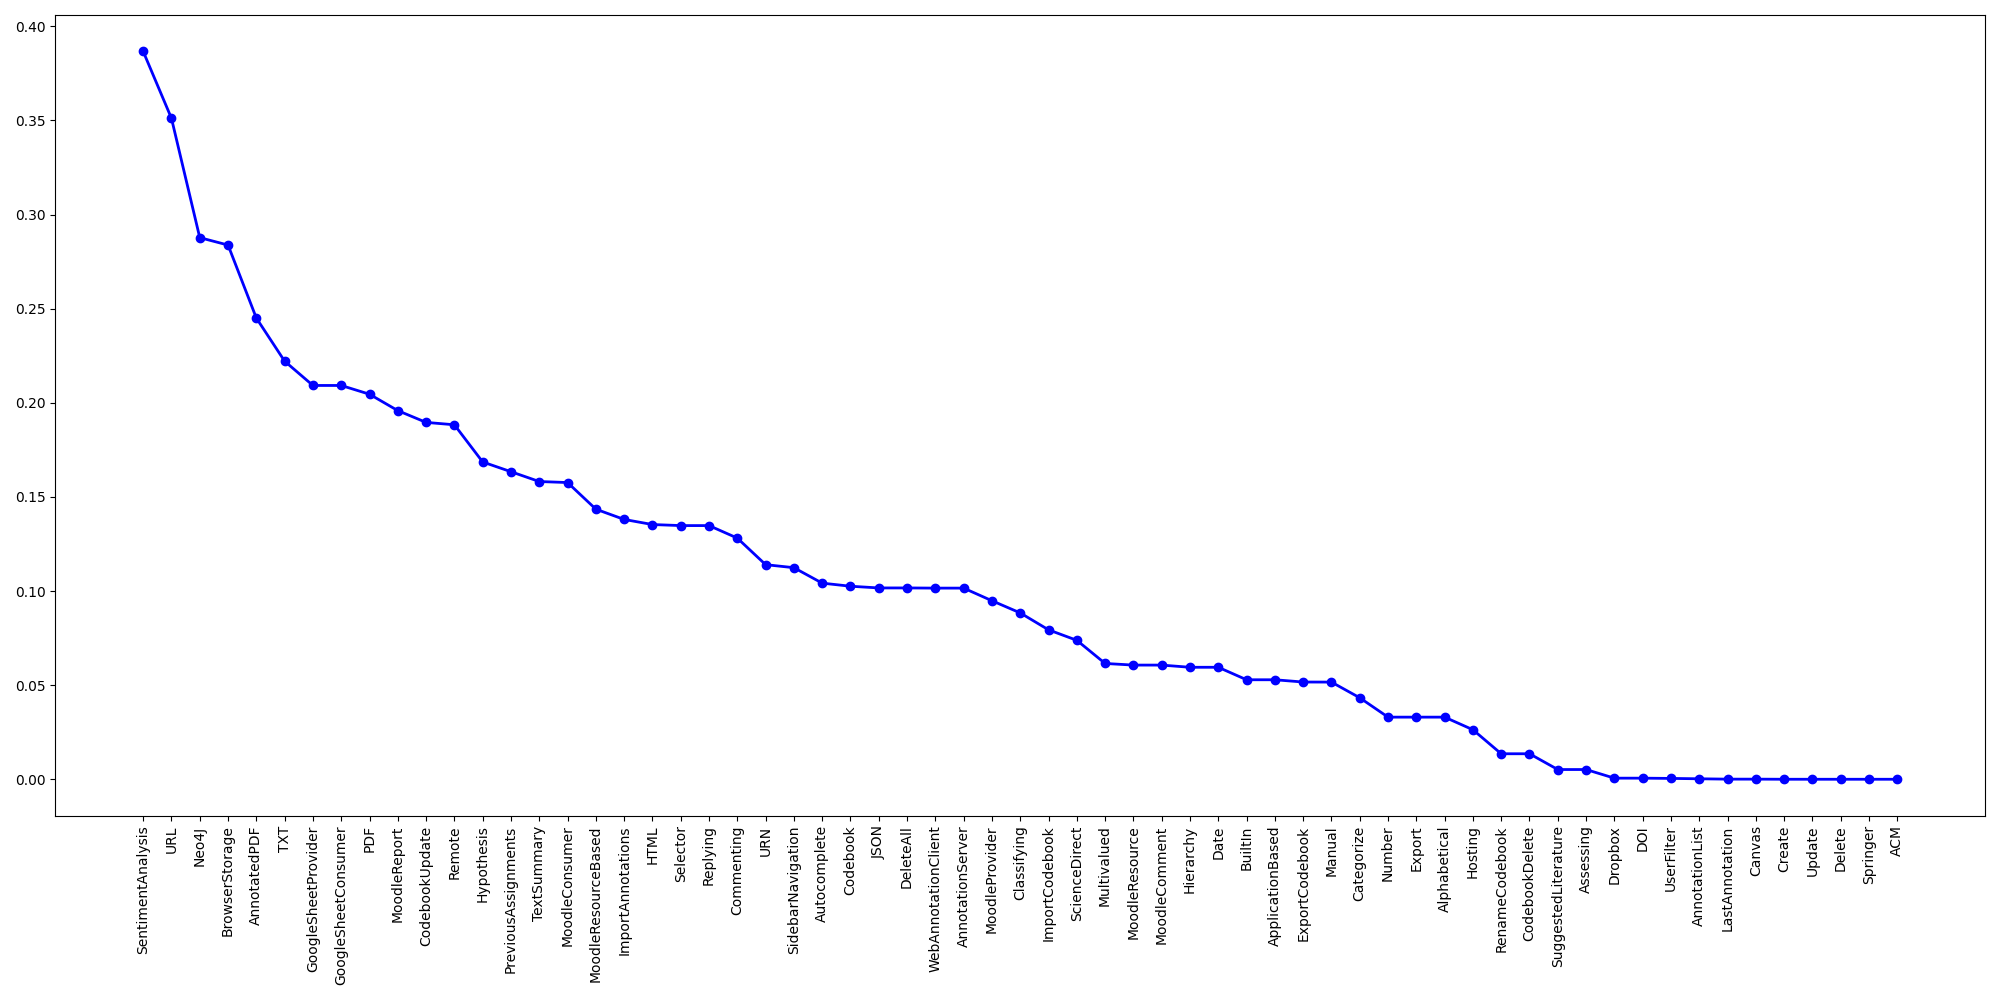
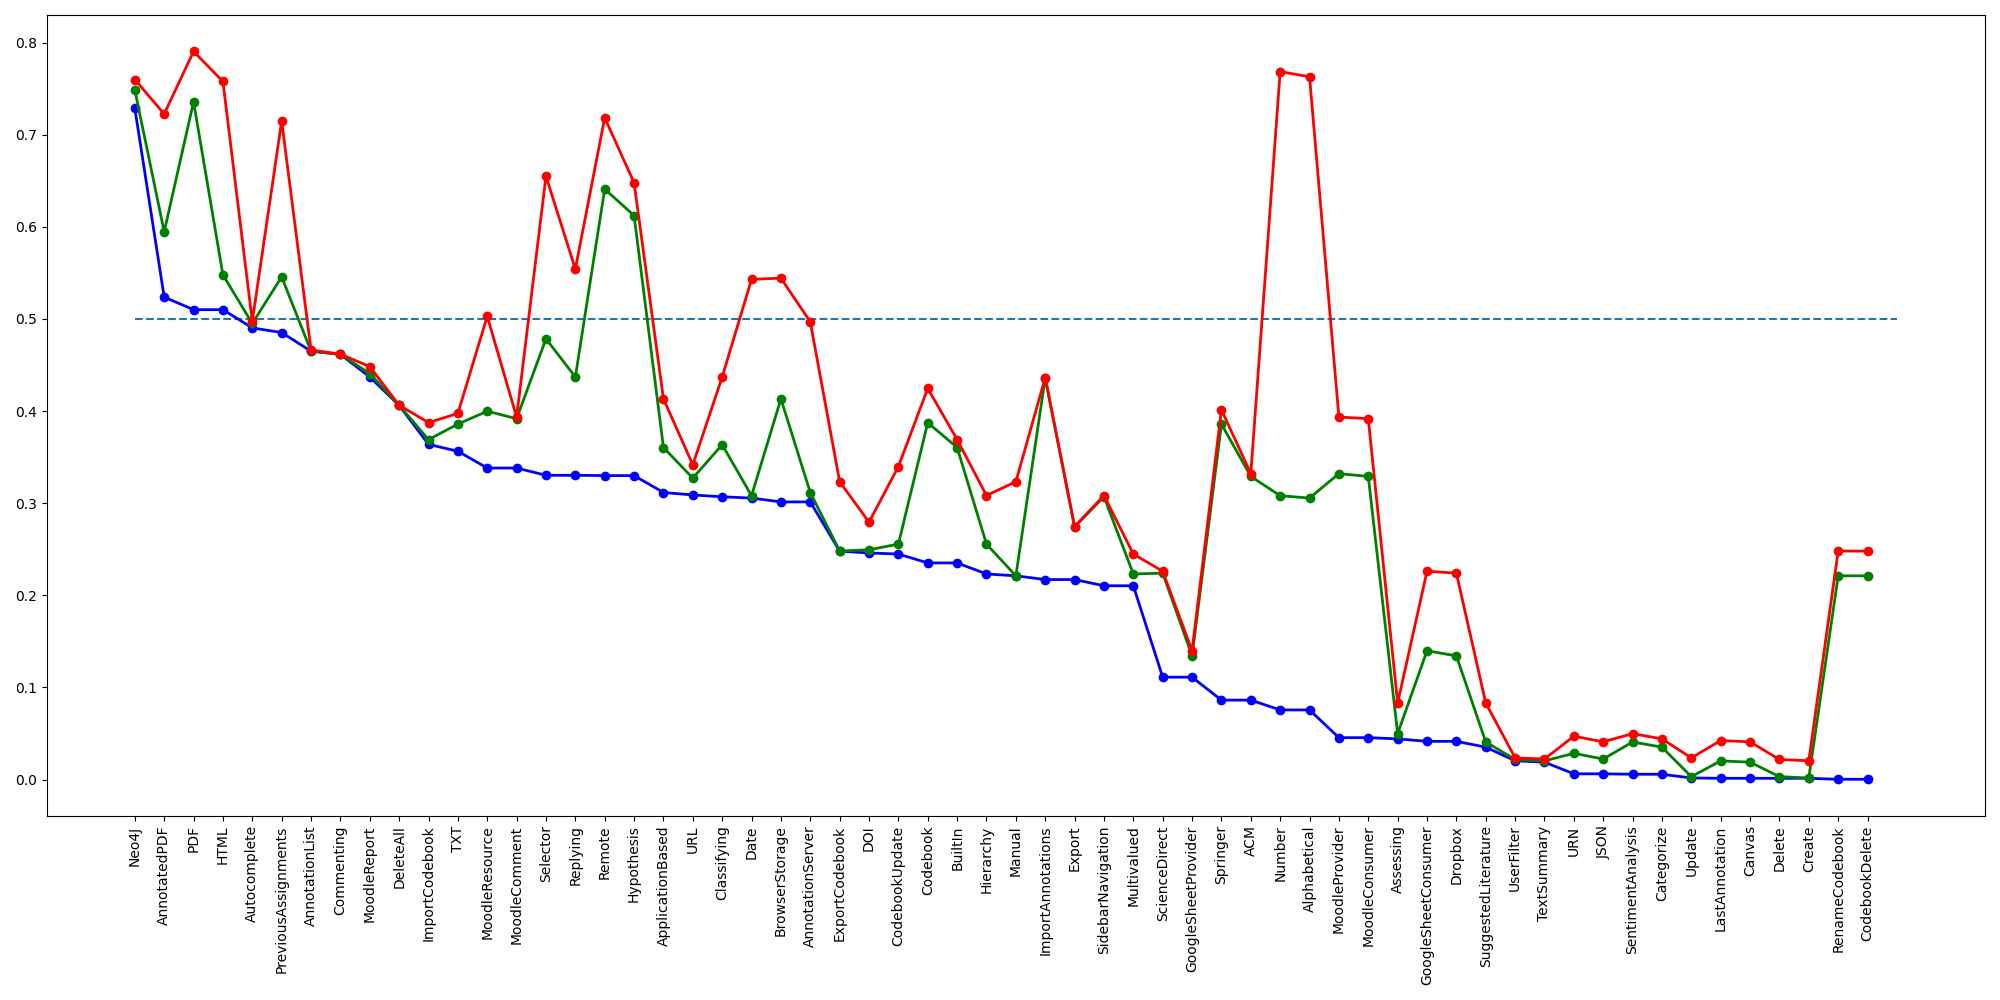
Clustering script and plot

diff --git a/LASCAD/results/similarApps/Experiments/Clusters/clusters.py b/LASCAD/results/similarApps/Experiments/Clusters/clusters.py
@@ -1,0 +1,180 @@
+import matplotlib.pyplot as plt
+import numpy as np
+import csv
+import pprint
+clusters_names=["Cluster"+str(i) for i in range(1,11)]
+clusters = {
+    'browsers': ["Cluster"+str(i) for i in range(1,11)],
+    'clusters_vol': [0 for i in range(1,11)],
+    'color': ['#5A69AF', '#579E65', '#F9C784', '#FC944A', '#F24C00', '#00B825','#ffff00','#ffa200','#ff00ed','#8b4615']
+}
+clusters_features = {}
+for name in clusters_names:
+    clusters_features[name]=""
+
+class BubbleChart:
+    def __init__(self, area, bubble_spacing=0):
+        """
+        Setup for bubble collapse.
+
+        Parameters
+        ----------
+        area : array-like
+            Area of the bubbles.
+        bubble_spacing : float, default: 0
+            Minimal spacing between bubbles after collapsing.
+
+        Notes
+        -----
+        If "area" is sorted, the results might look weird.
+        """
+        area = np.asarray(area)
+        r = np.sqrt(area / np.pi)
+
+        self.bubble_spacing = bubble_spacing
+        self.bubbles = np.ones((len(area), 4))
+        self.bubbles[:, 2] = r
+        self.bubbles[:, 3] = area
+        self.maxstep = 2 * self.bubbles[:, 2].max() + self.bubble_spacing
+        self.step_dist = self.maxstep / 2
+
+        # calculate initial grid layout for bubbles
+        length = np.ceil(np.sqrt(len(self.bubbles)))
+        grid = np.arange(length) * self.maxstep
+        gx, gy = np.meshgrid(grid, grid)
+        self.bubbles[:, 0] = gx.flatten()[:len(self.bubbles)]
+        self.bubbles[:, 1] = gy.flatten()[:len(self.bubbles)]
+
+        self.com = self.center_of_mass()
+
+    def center_of_mass(self):
+        return np.average(
+            self.bubbles[:, :2], axis=0, weights=self.bubbles[:, 3]
+        )
+
+    def center_distance(self, bubble, bubbles):
+        return np.hypot(bubble[0] - bubbles[:, 0],
+                        bubble[1] - bubbles[:, 1])
+
+    def outline_distance(self, bubble, bubbles):
+        center_distance = self.center_distance(bubble, bubbles)
+        return center_distance - bubble[2] - \
+               bubbles[:, 2] - self.bubble_spacing
+
+    def check_collisions(self, bubble, bubbles):
+        distance = self.outline_distance(bubble, bubbles)
+        return len(distance[distance < 0])
+
+    def collides_with(self, bubble, bubbles):
+        distance = self.outline_distance(bubble, bubbles)
+        idx_min = np.argmin(distance)
+        return idx_min if type(idx_min) == np.ndarray else [idx_min]
+
+    def collapse(self, n_iterations=50):
+        """
+        Move bubbles to the center of mass.
+
+        Parameters
+        ----------
+        n_iterations : int, default: 50
+            Number of moves to perform.
+        """
+        for _i in range(n_iterations):
+            moves = 0
+            for i in range(len(self.bubbles)):
+                rest_bub = np.delete(self.bubbles, i, 0)
+                # try to move directly towards the center of mass
+                # direction vector from bubble to the center of mass
+                dir_vec = self.com - self.bubbles[i, :2]
+
+                # shorten direction vector to have length of 1
+                dir_vec = dir_vec / np.sqrt(dir_vec.dot(dir_vec))
+
+                # calculate new bubble position
+                new_point = self.bubbles[i, :2] + dir_vec * self.step_dist
+                new_bubble = np.append(new_point, self.bubbles[i, 2:4])
+
+                # check whether new bubble collides with other bubbles
+                if not self.check_collisions(new_bubble, rest_bub):
+                    self.bubbles[i, :] = new_bubble
+                    self.com = self.center_of_mass()
+                    moves += 1
+                else:
+                    # try to move around a bubble that you collide with
+                    # find colliding bubble
+                    for colliding in self.collides_with(new_bubble, rest_bub):
+                        # calculate direction vector
+                        dir_vec = rest_bub[colliding, :2] - self.bubbles[i, :2]
+                        dir_vec = dir_vec / np.sqrt(dir_vec.dot(dir_vec))
+                        # calculate orthagonal vector
+                        orth = np.array([dir_vec[1], -dir_vec[0]])
+                        # test which direction to go
+                        new_point1 = (self.bubbles[i, :2] + orth *
+                                      self.step_dist)
+                        new_point2 = (self.bubbles[i, :2] - orth *
+                                      self.step_dist)
+                        dist1 = self.center_distance(
+                            self.com, np.array([new_point1]))
+                        dist2 = self.center_distance(
+                            self.com, np.array([new_point2]))
+                        new_point = new_point1 if dist1 < dist2 else new_point2
+                        new_bubble = np.append(new_point, self.bubbles[i, 2:4])
+                        if not self.check_collisions(new_bubble, rest_bub):
+                            self.bubbles[i, :] = new_bubble
+                            self.com = self.center_of_mass()
+
+            if moves / len(self.bubbles) < 0.1:
+                self.step_dist = self.step_dist / 2
+
+    def plot(self, ax, labels, colors):
+        """
+        Draw the bubble plot.
+
+        Parameters
+        ----------
+        ax : matplotlib.axes.Axes
+        labels : list
+            Labels of the bubbles.
+        colors : list
+            Colors of the bubbles.
+        """
+        for i in range(len(self.bubbles)):
+            circ = plt.Circle(
+                self.bubbles[i, :2], self.bubbles[i, 2], color=colors[i])
+            ax.add_patch(circ)
+            ax.text(*self.bubbles[i, :2], labels[i],
+                    horizontalalignment='center', verticalalignment='center')
+
+f1 = open('project_cat_showcase_noStem2_50_0.9_0.05_LASCAD.csv','r')
+
+c1 = csv.reader(f1, delimiter=',')
+pattern = r'\'(.*?)\''
+
+next(c1,None)
+for row in c1:
+    for i in range(1,len(row)):
+        if float(row[i]) != 0.0:
+            clusters['clusters_vol'][i-1] = clusters['clusters_vol'][i-1]+1
+            clusters_features['Cluster'+str(i)]= clusters_features['Cluster'+str(i)] + ", " + row[0]
+
+
+
+bubble_chart = BubbleChart(area=clusters['clusters_vol'],
+                           bubble_spacing=0.1)
+
+bubble_chart.collapse()
+
+fig, ax = plt.subplots(subplot_kw=dict(aspect="equal"),figsize=(20, 10))
+bubble_chart.plot(
+    ax, clusters['browsers'], clusters['color'])
+ax.axis("off")
+ax.relim()
+ax.autoscale_view()
+pp = pprint.PrettyPrinter(indent=2)
+title=""
+for key, value in clusters_features.items():
+    title= title+ key+ ":" + value +"\n\n"
+ax.set_title(title)
+
+plt.show()
+fig.savefig("clusters")

diff --git a/LASCAD/results/similarApps/Experiments/LonelyFeatures/lonelyFeatures.py b/LASCAD/results/similarApps/Experiments/LonelyFeatures/lonelyFeatures.py
@@ -2,27 +2,39 @@ import csv
 
 import matplotlib.pyplot as plt
 
-f1 = open('similarApps_showcase_noStem2_150_0.8_0.2_terms.csv', 'r')
+f1 = open('../../similarApps_showcase_noStem2_50_0.9_0.05.csv', 'r')
 
 c1 = csv.reader(f1, delimiter=',')
 pattern = r'\'(.*?)\''
 positives=0
 features = []
-top1= []
+top1 = []
+top2 = []
+top3 = []
 pattern = r'\((.*?)\,'
 next(c1,None)
 import re
 for row in c1:
     features.append(row[0])
     top1.append(float(re.search(pattern,row[1]).group(1)))
+    top2.append(float(re.search(pattern,row[2]).group(1)))
+    top3.append(float(re.search(pattern,row[3]).group(1)))
+
 
 lists = sorted(zip(*[top1, features]),reverse=True)
+lists2 = sorted(zip(*[top1, top2]),reverse=True)
+lists3 = sorted(zip(*[top1, top3]),reverse=True)
 y, x = list(zip(*lists))
+y, y2 = list(zip(*lists2))
+y, y3 = list(zip(*lists3))
 
 plt.plot(x, y)
 fig = plt.figure(figsize=(20, 10))
 ax = fig.add_subplot(111)
 ax.plot(x, y, 'bo-', linewidth=2, markersize=6)
+ax.plot(x, y2, 'go-', linewidth=2, markersize=6)
+ax.plot(x, y3, 'ro-', linewidth=2, markersize=6)
+ax.hlines(y=0.5, xmin=0, xmax=len(x), ls='--')
 plt.xticks(x, rotation='vertical')
 plt.show()
 fig.savefig("Lonely_features-terms")

diff --git a/LASCAD/LDA/Clustering.py b/LASCAD/LDA/Clustering.py
@@ -388,7 +388,7 @@ class Clustering(object):
     @staticmethod
     def removeBelowThresold(mat, threshold):
         """ remove values below the given threshold """
-        return mat.clip_lower(threshold).replace(threshold, 0)
+        return mat.clip(threshold).replace(threshold, 0)
 
 
     def calculate_accuracy(self, proj_cat, verbose=True):
